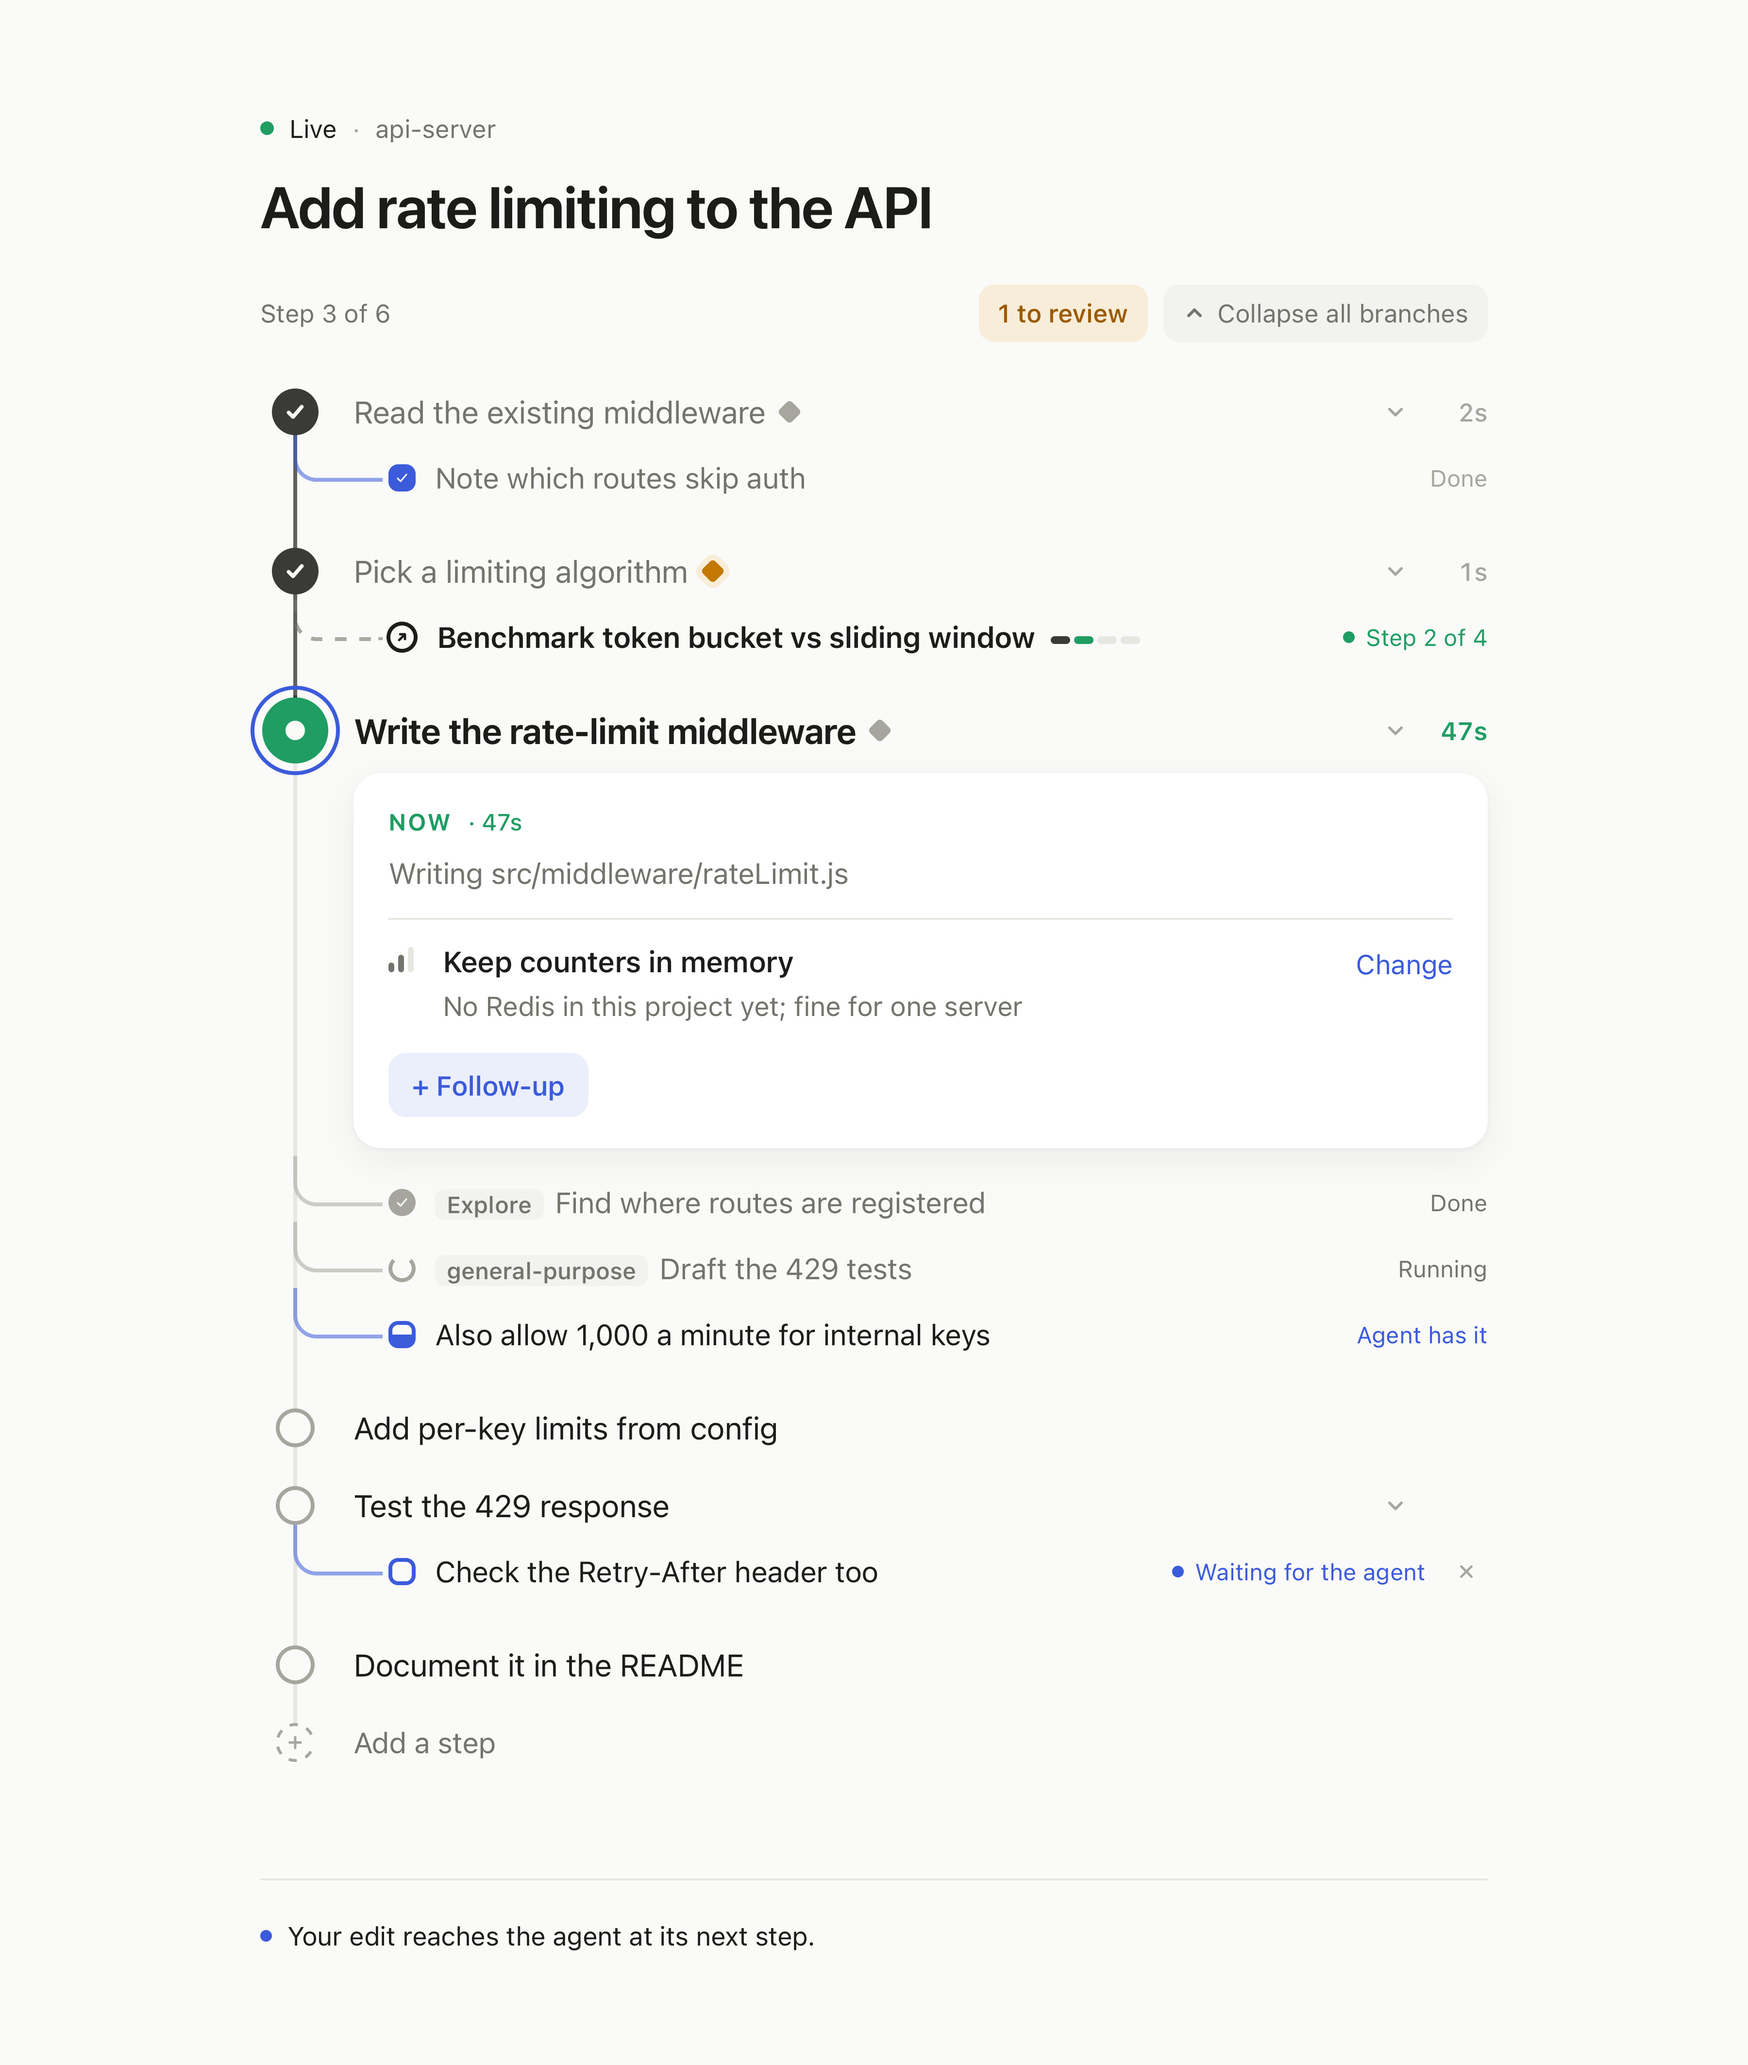
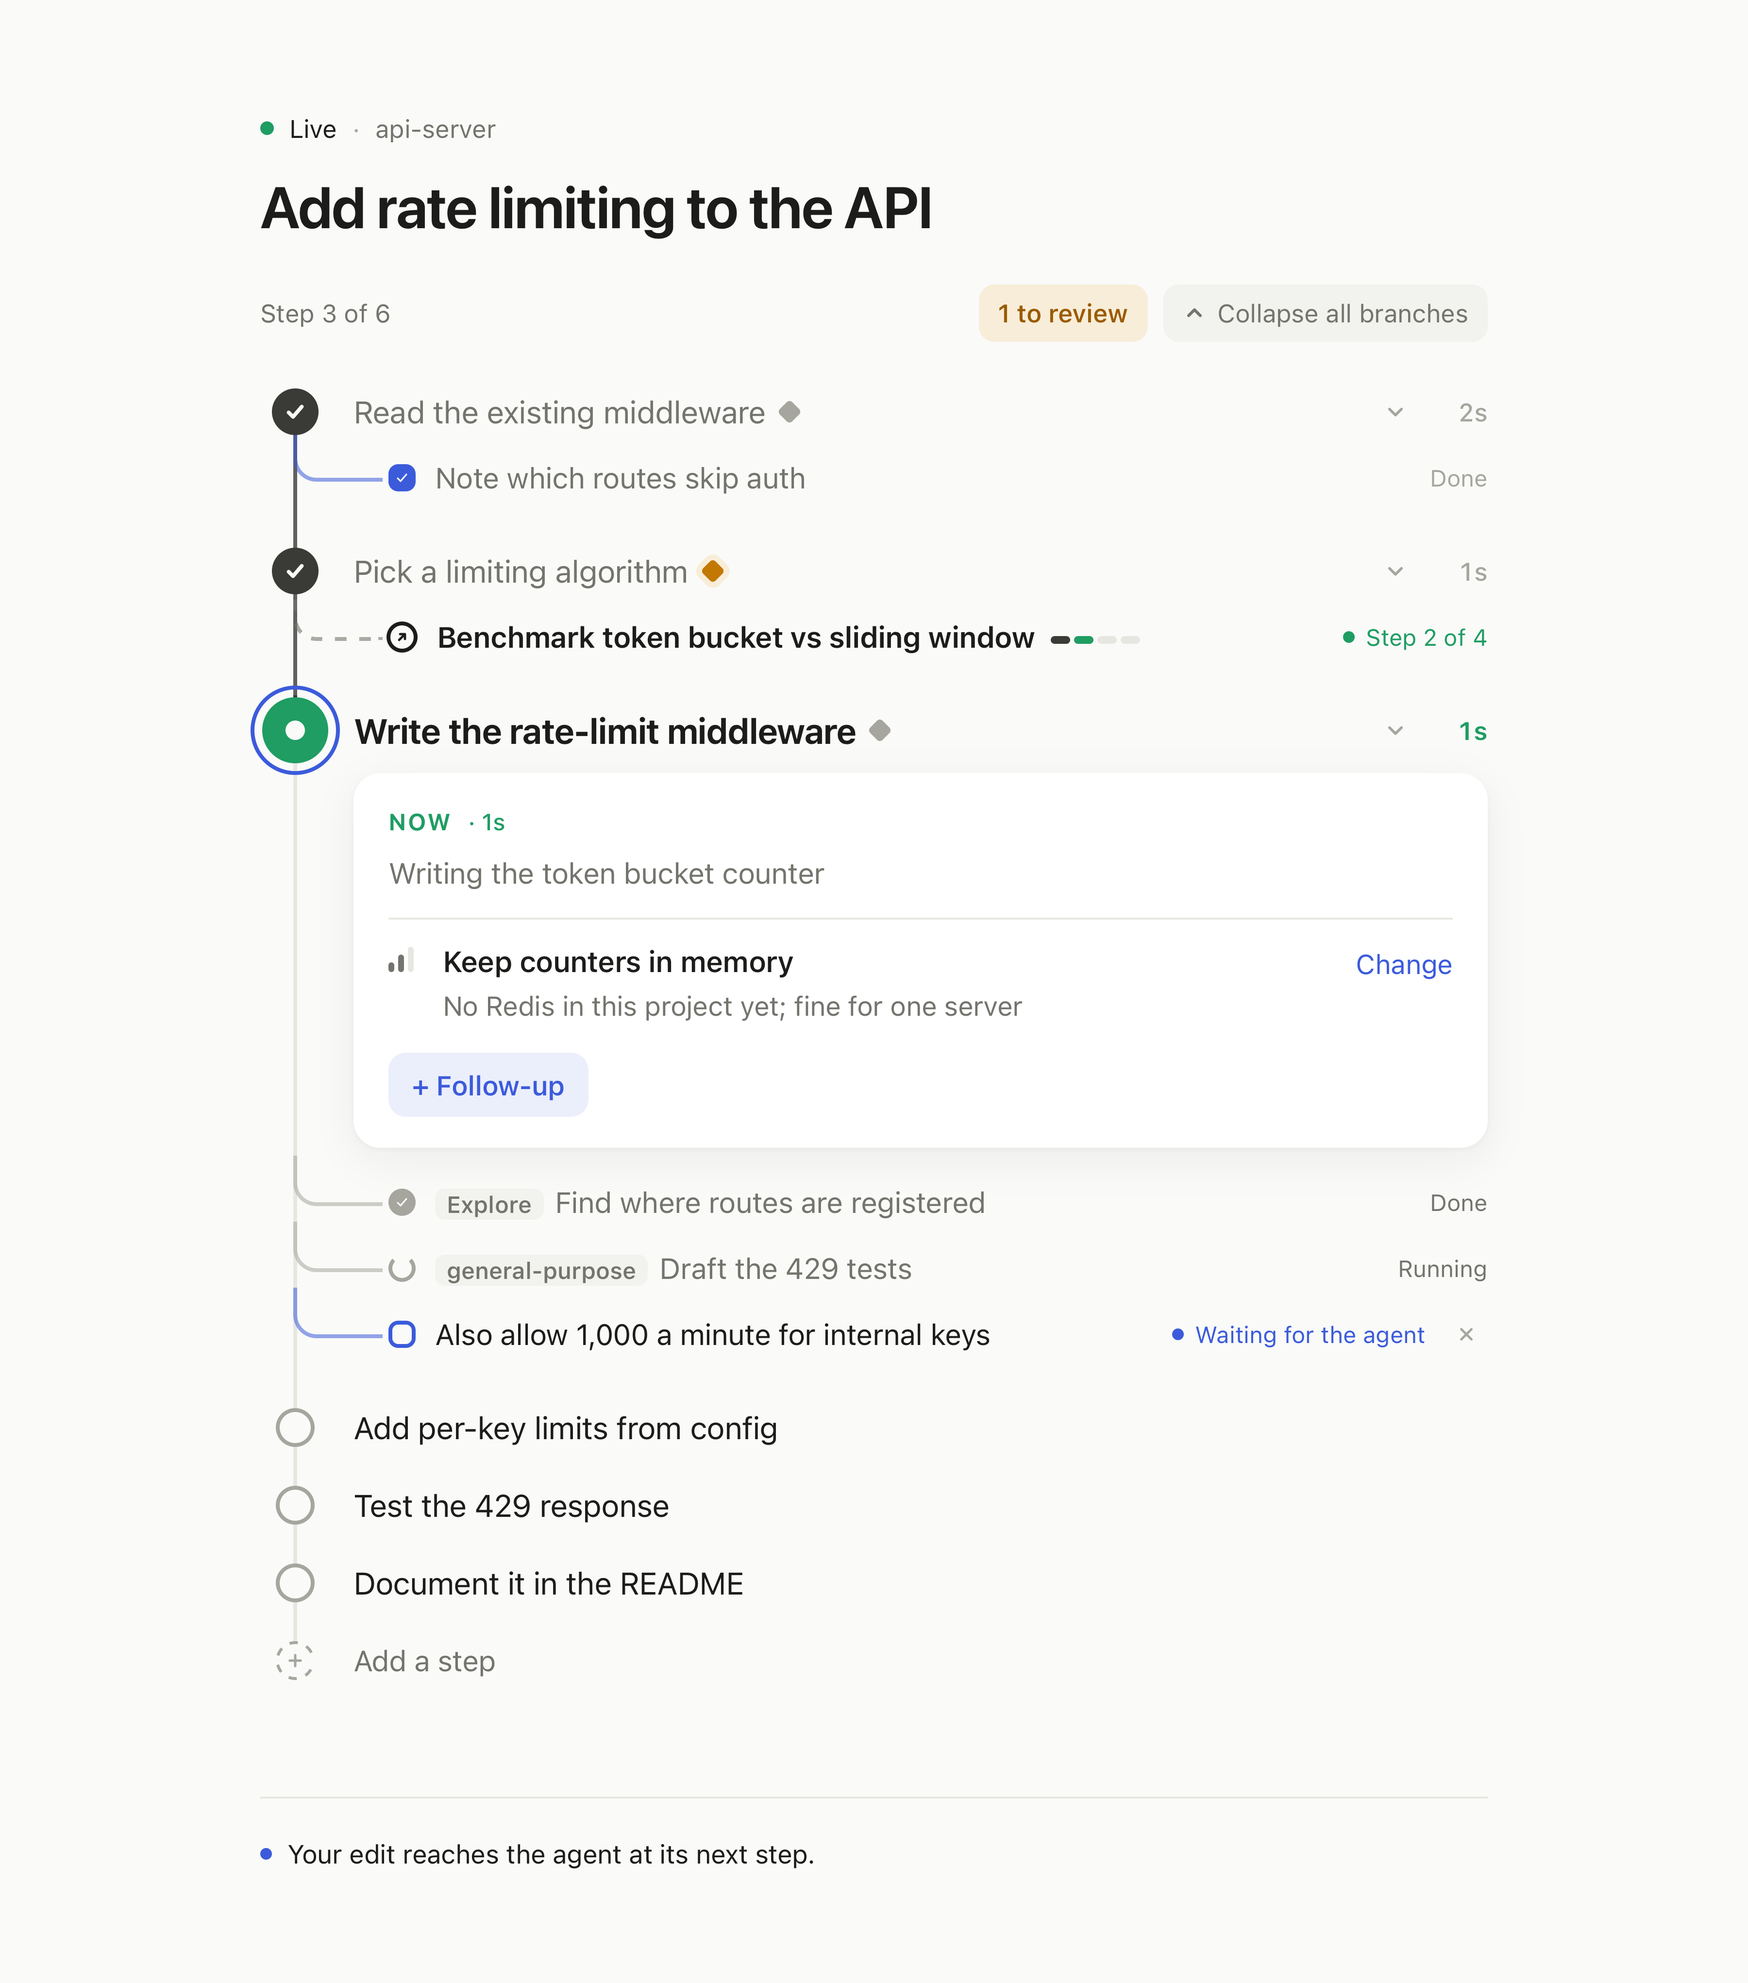
Stop showing file names on the page
The agent's step and activity say enough; the file path was noise.
set_now no longer takes a file, the hook stops sending one, and
saved state drops it on load.

diff --git a/src/server.js b/src/server.js
@@ -48,7 +48,7 @@ const safeName = id => String(id).replace(/[^a-zA-Z0-9_-]/g, '_');
 function blank(id) {
   return {
     id, title: '', cwd: '', pid: 0, status: 'idle', updatedAt: Date.now(), touchedAt: 0,
-    now: { text: '', file: '', at: 0 },
+    now: { text: '', at: 0 },
     decisions: [],
     next: [], agentNext: [], done: [],
     followups: [], helpers: [], children: [], hostId: '', parent: null, stepStartedAt: 0,
@@ -73,6 +73,7 @@ function migrate(s) {
   s.pending = s.pending || { plan: null, overrides: [] };
   s.pending.followups = s.pending.followups || [];
   for (const d of s.done) if (!d.id) d.id = newId('n');
+  if (s.now) delete s.now.file; // file names are no longer shown
 }
 const hasPending = s => !!(s.pending.plan || s.pending.overrides.length || s.pending.followups.length);
 const currentStepId = s => (s.next[0] && s.next[0].id) || (s.done.length ? s.done[s.done.length - 1].id : null);
@@ -218,7 +219,7 @@ function archiveTask(s) {
   if (s.earlier.length > 20) s.earlier.length = 20;
   s.done = []; s.next = []; s.agentNext = []; s.decisions = []; s.followups = [];
   s.helpers = s.helpers.filter(h => h.state === 'running');
-  s.now = { text: '', file: '', at: 0 };
+  s.now = { text: '', at: 0 };
   s.edits = { state: 'none', at: Date.now() };
 }
 // Steps the agent dropped from the front of its list are finished.
@@ -233,8 +234,8 @@ function markDone(s, nextTexts) {
   }));
   if (s.done.length > 100) s.done = s.done.slice(-100);
 }
-function agentSetNow(s, { doing, file }) {
-  s.now = { text: short(doing, 160), file: file ? rel(s, file) : s.now.file, at: Date.now() };
+function agentSetNow(s, { doing }) {
+  s.now = { text: short(doing, 160), at: Date.now() };
   s.status = 'working';
   changed(s, { touch: true });
 }
@@ -251,12 +252,6 @@ function agentDecision(s, { decision, reason, confidence, supersedes }) {
   changed(s, { touch: true });
   return d.id;
 }
-function rel(s, file) {
-  file = String(file);
-  if (s.cwd && file.startsWith(s.cwd + path.sep)) return file.slice(s.cwd.length + 1);
-  return file.replace(require('os').homedir(), '~');
-}
-
 function agentFollowupDone(s, id) {
   const f = s.followups.find(x => x.id === String(id));
   if (!f) throw Object.assign(new Error(`No follow-up with id ${id}`), { code: 404 });
@@ -487,7 +482,6 @@ const server = http.createServer(async (req, res) => {
         userRemoveFollowup(s, body.id);
         return send(res, 200, view(s));
       case '/api/hook/activity':
-        if (body.file) s.now.file = rel(s, body.file);
         if (body.status) {
           s.status = body.status;
           if (body.status === 'working') releaseWaiter(s.id);

diff --git a/src/page.html b/src/page.html
@@ -116,8 +116,6 @@ body.is-dragging, body.is-dragging * { cursor: grabbing !important; user-select:
 .kicker.now { color: var(--live); }
 .kicker .t { text-transform: none; letter-spacing: 0; font-weight: 500; }
 .activity { margin: 6px 0 0; color: var(--muted); font-size: 15px; }
-.chip { font-family: var(--mono); font-size: 12.5px; background: var(--chip); color: var(--muted); padding: 3px 8px; border-radius: 7px; overflow-wrap: anywhere; display: inline-flex; align-items: center; gap: 6px; margin-top: 10px; }
-.chip svg { width: 12px; height: 12px; }
 .actions { display: flex; gap: 8px; margin-top: 14px; flex-wrap: wrap; }
 .btn { padding: 6px 12px; border-radius: 9px; background: var(--chip); font-size: 14px; color: var(--text); }
 .btn:hover { background: var(--hover); }
@@ -305,7 +303,6 @@ footer svg { width: 14px; height: 14px; }
     down: () => svg('<path d="M4 6l4 4 4-4"/>', 2),
     back: () => svg('<path d="M10 4L6 8l4 4"/>', 2),
     arrow: () => svg('<path d="M5 11l6-6M6 5h5v5"/>', 2.4),
-    file: () => svg('<path d="M4 2.5h5l3 3v8H4z"/><path d="M9 2.5v3h3"/>'),
   };
 
   const ago = t => {
@@ -532,7 +529,6 @@ footer svg { width: 14px; height: 14px; }
     return h('div', { class: 'vcard', onclick: e => e.stopPropagation() },
       kicker,
       activity && h('p', { class: 'activity' }, activity),
-      kind === 'now' && n.file && state.status === 'working' && !(activity && activity.includes(n.file)) ? h('span', { class: 'chip' }, ICON.file(), n.file) : null,
       decs.length ? decisionList(decs) : null,
       step.id === '_now' ? null : h('div', { class: 'actions' },
         h('button', { class: 'btn fu-btn', onclick: () => { ui.fuAdding = step.id; ui.collapsed.delete(step.id); paint(); app.querySelector('.fu input')?.focus(); } }, '+ Follow-up'),

diff --git a/src/hook.js b/src/hook.js
@@ -62,12 +62,9 @@ async function main() {
       }
       return print({ hookSpecificOutput: { hookEventName: 'PreToolUse', permissionDecision: 'allow', permissionDecisionReason: 'Status page update' } });
 
-    case 'pre': { // async: note the file being worked in
-      const t = input.tool_input || {};
-      const file = input.agent_id ? '' : t.file_path || t.notebook_path || ''; // a helper's file isn't the main agent's "now"
-      await request('POST', '/api/hook/activity', { session, status: 'working', ...(file ? { file } : {}) }, 800);
+    case 'pre': // async: the agent is working
+      await request('POST', '/api/hook/activity', { session, status: 'working' }, 800);
       return;
-    }
     case 'post': { // between steps: deliver edits
       if (OWN_TOOLS.test(input.tool_name || '')) return; // those results already carry edits
       if (input.agent_id) return; // edits are for the main agent; a subagent would swallow them

diff --git a/src/mcp.js b/src/mcp.js
@@ -34,7 +34,6 @@ const TOOLS = [
       type: 'object',
       properties: {
         doing: { type: 'string' },
-        file: { type: 'string', description: 'Main file you are working in, if any' },
       },
       required: ['doing'],
     },
@@ -72,7 +71,7 @@ async function run(name, args) {
     const r = await call('POST', '/api/agent/plan', { session, title: args.title, next: args.next });
     if (!r.accepted) return withShare(session, `Not applied: the user changed the plan first.\n\n${r.message}`);
   } else if (name === 'set_now') {
-    await call('POST', '/api/agent/now', { session, doing: args.doing, file: args.file });
+    await call('POST', '/api/agent/now', { session, doing: args.doing });
   } else if (name === 'record_decision') {
     const r = await call('POST', '/api/agent/decision', { session, ...args });
     text = `Recorded as ${r.id}.`;

diff --git a/README.md b/README.md
@@ -19,7 +19,7 @@ Needs Node 18+. Restart Claude Code after installing.
 
 Give Claude any multi-step task. It shares a link to the page in its first update. You can also open the page any time with `/status-page:open`.
 
-- **The map:** every step on one line, with what's done, what's running now, and what's next. Tap a step to open it: what it's doing, the file it's in, and the decisions made there. Unsure decisions are marked *review*; click **Change** to say what to do instead.
+- **The map:** every step on one line, with what's done, what's running now, and what's next. Tap a step to open it: what it's doing and the decisions made there. Unsure decisions are marked *review*; click **Change** to say what to do instead.
 - **Next up:** rename, reorder (drag or Move up/down), remove, or add steps.
 - **Follow-ups:** add one to any step, even a finished one, and it branches off the map as a blue square: waiting, then *agent has it*, then done.
 - **Helpers and side sessions:** subagents show as gray branches on the step that started them. Side sessions the agent starts show as linked branches with their own progress; click one to open its page.

diff --git a/skills/keep-status/SKILL.md b/skills/keep-status/SKILL.md
@@ -10,7 +10,7 @@ The user watches a small page instead of interrupting you. It shows your steps a
 ## When to update it
 
 1. **At the start** of a task with three or more steps, call `update_plan` with a short title and the steps still to do. For a new task later in the same session, use a new title; the page moves the earlier task into a folded **Earlier** list.
-2. **At each step**, call `set_now` with one plain line ("Adding the retry wrapper to the HTTP client") and the main file.
+2. **At each step**, call `set_now` with one plain line ("Adding the retry wrapper to the HTTP client").
 3. **When you choose something** a reasonable person might choose differently (a library, an approach, a trade-off, an assumption about what the user wants), call `record_decision` with a one-line reason.
    - `high`: obvious or forced by the codebase.
    - `medium`: sensible default.
